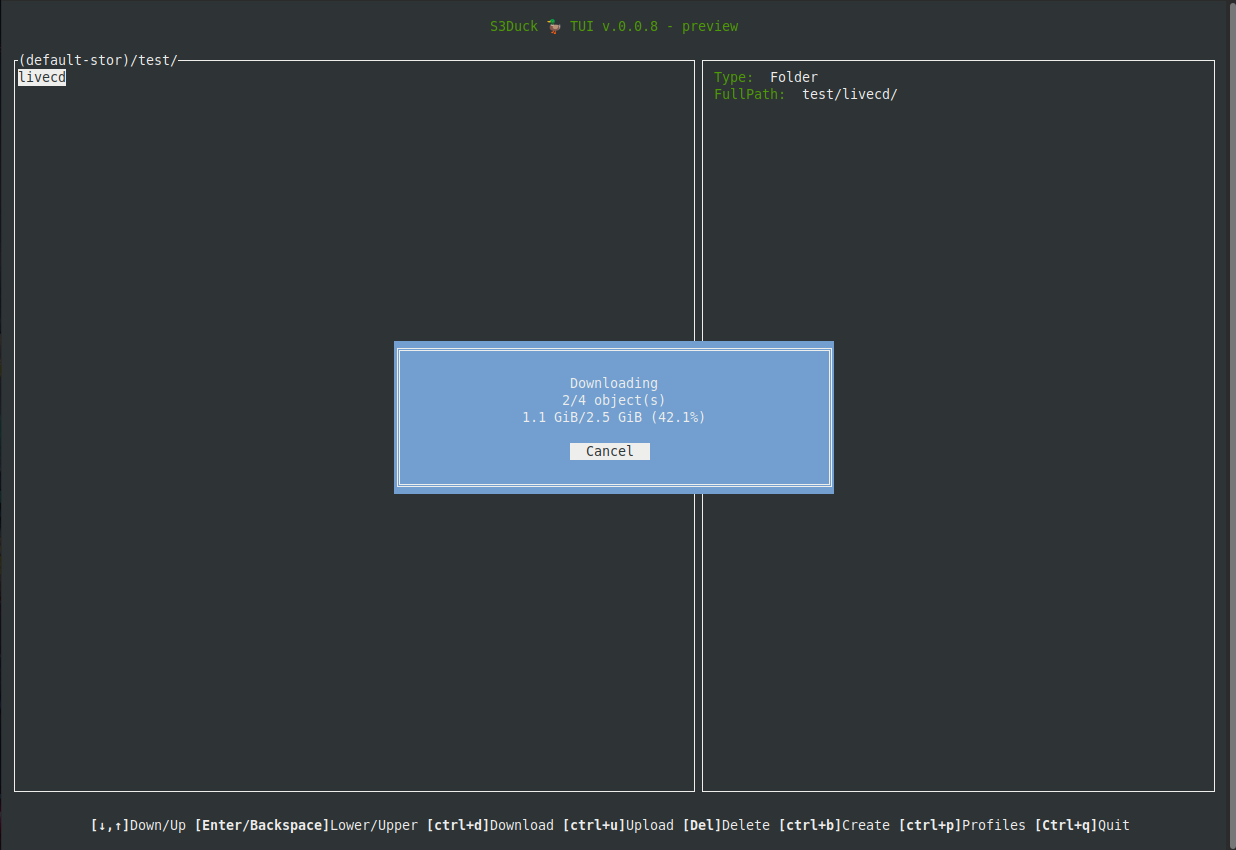
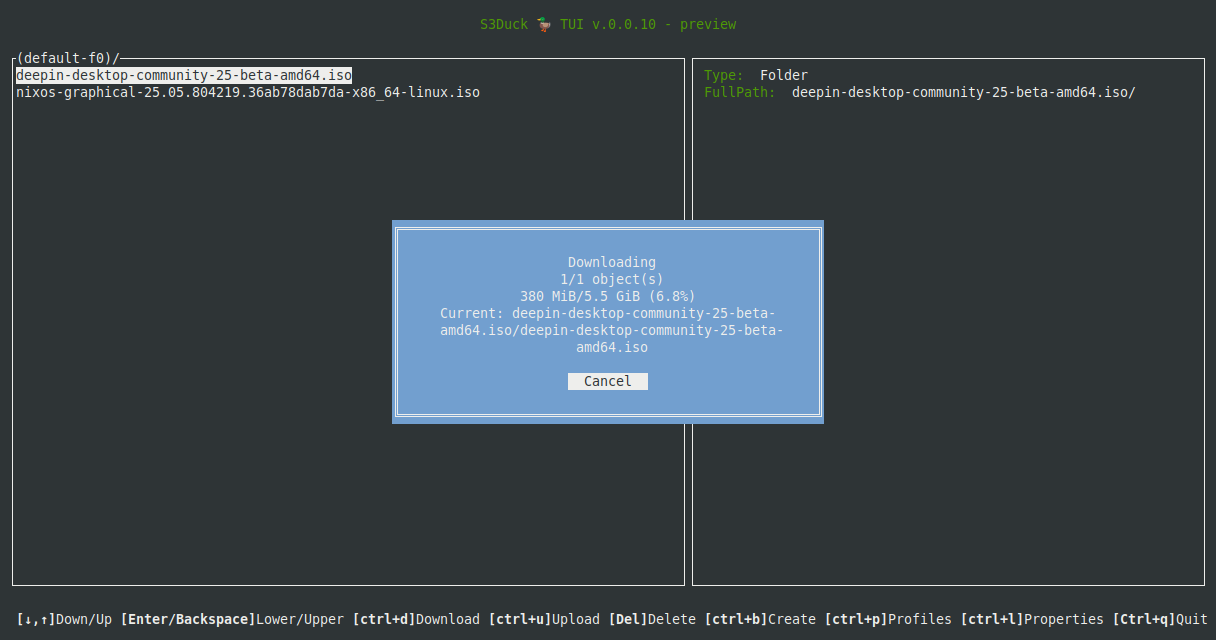
large uploads (#8)
* added progress reader

* download progress

* fixed actions

* fixed root element upload

* bump version

* bump version

* fixed download progress

* fixed upload

diff --git a/pkg/model/model.go b/pkg/model/model.go
@@ -4,7 +4,7 @@ import (
 	"context"
 	"crypto/tls"
 	"fmt"
-
+	"io"
 	"log"
 	"net/http"
 	"os"
@@ -62,6 +62,34 @@ type Model struct {
 	Client     *s3.Client
 	Downloader *s3m.Downloader
 	Cf         *Config
+}
+
+type progressReader struct {
+	r       io.Reader
+	written int64
+	total   int64
+	update  func(written int64, total int64)
+}
+
+func (pr *progressReader) Read(p []byte) (int, error) {
+	n, err := pr.r.Read(p)
+	pr.written += int64(n)
+	pr.update(pr.written, pr.total)
+	return n, err
+}
+
+type progressWriterAt struct {
+	w          io.WriterAt
+	written    int64
+	total      int64
+	updateFunc func(written int64, total int64)
+}
+
+func (pwa *progressWriterAt) WriteAt(p []byte, off int64) (int, error) {
+	n, err := pwa.w.WriteAt(p, off)
+	pwa.written += int64(n)
+	pwa.updateFunc(pwa.written, pwa.total)
+	return n, err
 }
 
 func GetDownloader(client *s3.Client) *s3m.Downloader {
@@ -181,27 +209,44 @@ func (m *Model) ListObjects(key string, bucket *Object) []s3t.Object {
 	return objects
 }
 
-func (m *Model) Download(ctx context.Context, object s3t.Object, currentPath, destPath string, bucket *string) (n int64, err error) {
-	if err = os.MkdirAll(destPath, 0700); err != nil {
+func (m *Model) Download(
+	ctx context.Context,
+	object s3t.Object,
+	currentPath, destPath string,
+	bucket *string,
+	totalSize int64,
+	progressCb func(written int64, total int64, key string),
+) (int64, error) {
+	if err := os.MkdirAll(destPath, 0700); err != nil {
 		return 0, err
 	}
 
-	p, _ := filepath.Rel(currentPath, *object.Key)
-	dp := path.Join(destPath, p)
+	key := filepath.ToSlash(*object.Key)
+	prefix := filepath.ToSlash(currentPath)
+
+	if prefix != "" && !strings.HasSuffix(prefix, "/") {
+		prefix += "/"
+	}
+
+	relativeKey := key
+	if strings.HasPrefix(key, prefix) {
+		relativeKey = strings.TrimPrefix(key, prefix)
+	}
+
+	downloadPath := filepath.Join(destPath, relativeKey)
 
 	if strings.HasSuffix(*object.Key, "/") {
-		err = os.MkdirAll(dp, 0760)
-		return 0, nil
+		return 0, os.MkdirAll(downloadPath, 0760)
 	}
-	dir := filepath.Dir(dp)
-	err = os.MkdirAll(dir, 0760)
-
-	_, err = os.Stat(dp)
-	if err == nil {
-		return 0, fmt.Errorf("file exists: %s", dp)
+	dir := filepath.Dir(downloadPath)
+	if err := os.MkdirAll(dir, 0760); err != nil {
+		return 0, err
+	}
+	if _, err := os.Stat(downloadPath); err == nil {
+		return 0, fmt.Errorf("file exists: %s", downloadPath)
 	}
 
-	fp, err := os.Create(dp)
+	fp, err := os.Create(downloadPath)
 	if err != nil {
 		return 0, err
 	}
@@ -211,18 +256,23 @@ func (m *Model) Download(ctx context.Context, object s3t.Object, currentPath, de
 		}
 	}()
 
-	n, err = m.Downloader.Download(
-		ctx,
-		fp,
-		&s3.GetObjectInput{
-			Bucket: aws.String(*bucket),
-			Key:    object.Key,
+	writerAt := &progressWriterAt{
+		w:     fp,
+		total: object.Size,
+		updateFunc: func(written int64, total int64) {
+			if progressCb != nil {
+				progressCb(written, total, *object.Key)
+			}
 		},
-	)
+	}
+
+	n, err := m.Downloader.Download(ctx, writerAt, &s3.GetObjectInput{
+		Bucket: bucket,
+		Key:    object.Key,
+	})
 
 	if ctx.Err() != nil {
-		// Cleanup partial file
-		os.Remove(dp)
+		os.Remove(downloadPath)
 		return 0, ctx.Err()
 	}
 
@@ -400,7 +450,12 @@ func (m *Model) CreateFolder(name *string, bucket *Object) error {
 	return err
 }
 
-func (m *Model) Upload(ctx context.Context, localPath, s3Prefix string, bucket *Object, progressCb func(current, total int64, i, count int, local, remote string)) error {
+func (m *Model) Upload(
+	ctx context.Context,
+	localPath, s3Prefix string,
+	bucket *Object,
+	progressCb func(current, total int64, i, count int, local, remote string),
+) error {
 	info, err := os.Stat(localPath)
 	if err != nil {
 		return err
@@ -428,6 +483,7 @@ func (m *Model) Upload(ctx context.Context, localPath, s3Prefix string, bucket *
 	}
 
 	uploader := s3m.NewUploader(m.Client)
+	var uploadedTotal int64
 
 	for i, fpath := range files {
 		select {
@@ -436,19 +492,9 @@ func (m *Model) Upload(ctx context.Context, localPath, s3Prefix string, bucket *
 		default:
 		}
 
-		var relPath string
-		if isDir {
-			relPath, _ = filepath.Rel(localPath, fpath)
-			relPath = filepath.ToSlash(relPath)
-		} else {
-			relPath = filepath.Base(fpath)
-		}
-
-		var s3Key string
-		if isDir {
-			s3Key = path.Join(s3Prefix, filepath.Base(localPath), relPath)
-		} else {
-			s3Key = path.Join(s3Prefix, relPath)
+		stat, err := os.Stat(fpath)
+		if err != nil {
+			return fmt.Errorf("stat failed for %s: %w", fpath, err)
 		}
 
 		fp, err := os.Open(fpath)
@@ -456,19 +502,38 @@ func (m *Model) Upload(ctx context.Context, localPath, s3Prefix string, bucket *
 			return fmt.Errorf("failed to open file %s: %w", fpath, err)
 		}
 
+		var s3Key string
+		if isDir {
+			relPath, _ := filepath.Rel(localPath, fpath)
+			relPath = filepath.ToSlash(relPath)
+			s3Key = path.Join(s3Prefix, relPath)
+		} else {
+			s3Key = path.Join(s3Prefix, filepath.Base(fpath))
+		}
+
+		pr := &progressReader{
+			r:     fp,
+			total: stat.Size(),
+			update: func(written, _ int64) {
+				if progressCb != nil {
+					progressCb(uploadedTotal+written, totalSize, i+1, len(files), fpath, s3Key)
+				}
+			},
+		}
+
 		_, err = uploader.Upload(ctx, &s3.PutObjectInput{
 			Bucket: aws.String(*bucket.Key),
 			Key:    aws.String(s3Key),
-			Body:   fp,
+			Body:   pr,
 		})
+
 		fp.Close()
+
 		if err != nil {
 			return fmt.Errorf("upload failed for %s: %w", fpath, err)
 		}
 
-		if stat, err := os.Stat(fpath); err == nil && progressCb != nil {
-			progressCb(stat.Size(), totalSize, i+1, len(files), fpath, s3Key)
-		}
+		uploadedTotal += stat.Size()
 	}
 
 	return nil

diff --git a/pkg/controller/controller.go b/pkg/controller/controller.go
@@ -122,6 +122,7 @@ func (c *Controller) Delete() error {
 								c.error(fmt.Sprintf("Failed to delete %s", cur), err, false)
 							} else {
 								c.updateList()
+								c.clearDetailsIfNoSelection()
 							}
 						}()
 
@@ -134,13 +135,18 @@ func (c *Controller) Delete() error {
 }
 
 func (c *Controller) Download() error {
+
+	if c.view.List.GetItemCount() == 0 {
+		return nil
+	}
+
 	cur := c.getSelectedObjectName()
 	val, ok := c.objs[cur]
 	if !ok || (val.Ot != model.File && val.Ot != model.Folder) {
 		return nil
 	}
 
-	cwd := path.Join(c.params.HomeDir, "Downloads") + string(filepath.Separator)
+	cwd := path.Join(c.params.HomeDir, "Downloads") + "/"
 	key := c.currentPath + cur
 	if val.Ot == model.Folder {
 		key += "/"
@@ -150,7 +156,6 @@ func (c *Controller) Download() error {
 	if len(objects) == 0 {
 		return nil
 	}
-
 	totalSize := int64(0)
 	for _, o := range objects {
 		totalSize += o.Size
@@ -181,15 +186,6 @@ func (c *Controller) Download() error {
 		go func() {
 			downloadedSize := int64(0)
 
-			// Show initial progress for 0%
-			c.view.App.QueueUpdateDraw(func() {
-				progress.SetText(fmt.Sprintf(
-					"Downloading\n0/%d object(s)\n0B/%s (0.0%%)",
-					len(objects),
-					humanize.IBytes(uint64(totalSize)),
-				))
-			})
-
 			for i, object := range objects {
 				select {
 				case <-ctx.Done():
@@ -197,7 +193,20 @@ func (c *Controller) Download() error {
 				default:
 				}
 
-				n, err := c.model.Download(ctx, object, c.currentPath, cwd, c.currentBucket.Key)
+				n, err := c.model.Download(ctx, object, c.currentPath, cwd, c.currentBucket.Key, totalSize, func(written, total int64, key string) {
+					percentage := float64(downloadedSize+written) / float64(totalSize) * 100
+					c.view.App.QueueUpdateDraw(func() {
+						progress.SetText(fmt.Sprintf(
+							"Downloading\n%d/%d object(s)\n%s/%s (%.1f%%)\nCurrent: %s",
+							i+1, len(objects),
+							humanize.IBytes(uint64(downloadedSize+written)),
+							humanize.IBytes(uint64(totalSize)),
+							percentage,
+							key,
+						))
+					})
+				})
+
 				if err != nil {
 					c.view.App.QueueUpdateDraw(func() {
 						c.view.Pages.RemovePage("progress").SwitchToPage("main")
@@ -205,22 +214,9 @@ func (c *Controller) Download() error {
 					go c.error(fmt.Sprintf("Failed to download %s", *object.Key), err, false)
 					return
 				}
-
 				downloadedSize += n
-				percentage := float64(downloadedSize) / float64(totalSize) * 100
-
-				c.view.App.QueueUpdateDraw(func() {
-					progress.SetText(fmt.Sprintf(
-						"Downloading\n%d/%d object(s)\n%s/%s (%.1f%%)",
-						i+1, len(objects),
-						humanize.IBytes(uint64(downloadedSize)),
-						humanize.IBytes(uint64(totalSize)),
-						percentage,
-					))
-				})
 			}
 
-			// After download finishes successfully
 			select {
 			case <-ctx.Done():
 				return
@@ -386,8 +382,6 @@ func (c *Controller) CreateConfigEntry() {
 		if reg != "" {
 			region = &reg
 		}
-
-		fmt.Println(name)
 		conf := cfg.Config{
 			Name:      name,
 			BaseUrl:   url,
@@ -1002,7 +996,7 @@ func (c *Controller) ShowFileProperties(key string) {
 	}
 
 	text := fmt.Sprintf(
-		"[green]Name: [white]%s\n[green]Size: [white]%s\n[green]Modified: [white]%v\n[green]Etag: [white]%s\n[green]Link: [blue]%s",
+		"[black]Name: [white]%s\n[black]Size: [white]%s\n[black]Modified: [white]%v\n[black]Etag: [white]%s\n[black]Link: [black]%s",
 		*obj.Key,
 		humanize.IBytes(uint64(*obj.Size)),
 		obj.LastModified,
@@ -1022,4 +1016,22 @@ func (c *Controller) ShowFileProperties(key string) {
 		})
 
 	c.view.Pages.AddPage("modal", c.view.ModalEdit(modal, 75, 12), true, true)
+}
+
+func (c *Controller) clearDetailsIfNoSelection() {
+	c.view.App.QueueUpdateDraw(func() {
+		if c.view.List.GetItemCount() == 0 {
+			c.view.Details.Clear()
+			return
+		}
+		i := c.view.List.GetCurrentItem()
+		if i < 0 {
+			c.view.Details.Clear()
+			return
+		}
+		_, cur := c.view.List.GetItemText(i)
+		if strings.TrimSpace(cur) == "" {
+			c.view.Details.Clear()
+		}
+	})
 }

diff --git a/pkg/view/view.go b/pkg/view/view.go
@@ -7,7 +7,7 @@ import (
 	"github.com/rivo/tview"
 )
 
-const versionText = "S3Duck 🦆 TUI v.0.0.9 - preview"
+const versionText = "S3Duck 🦆 TUI v.0.0.16 - preview"
 
 // View ...
 type View struct {
